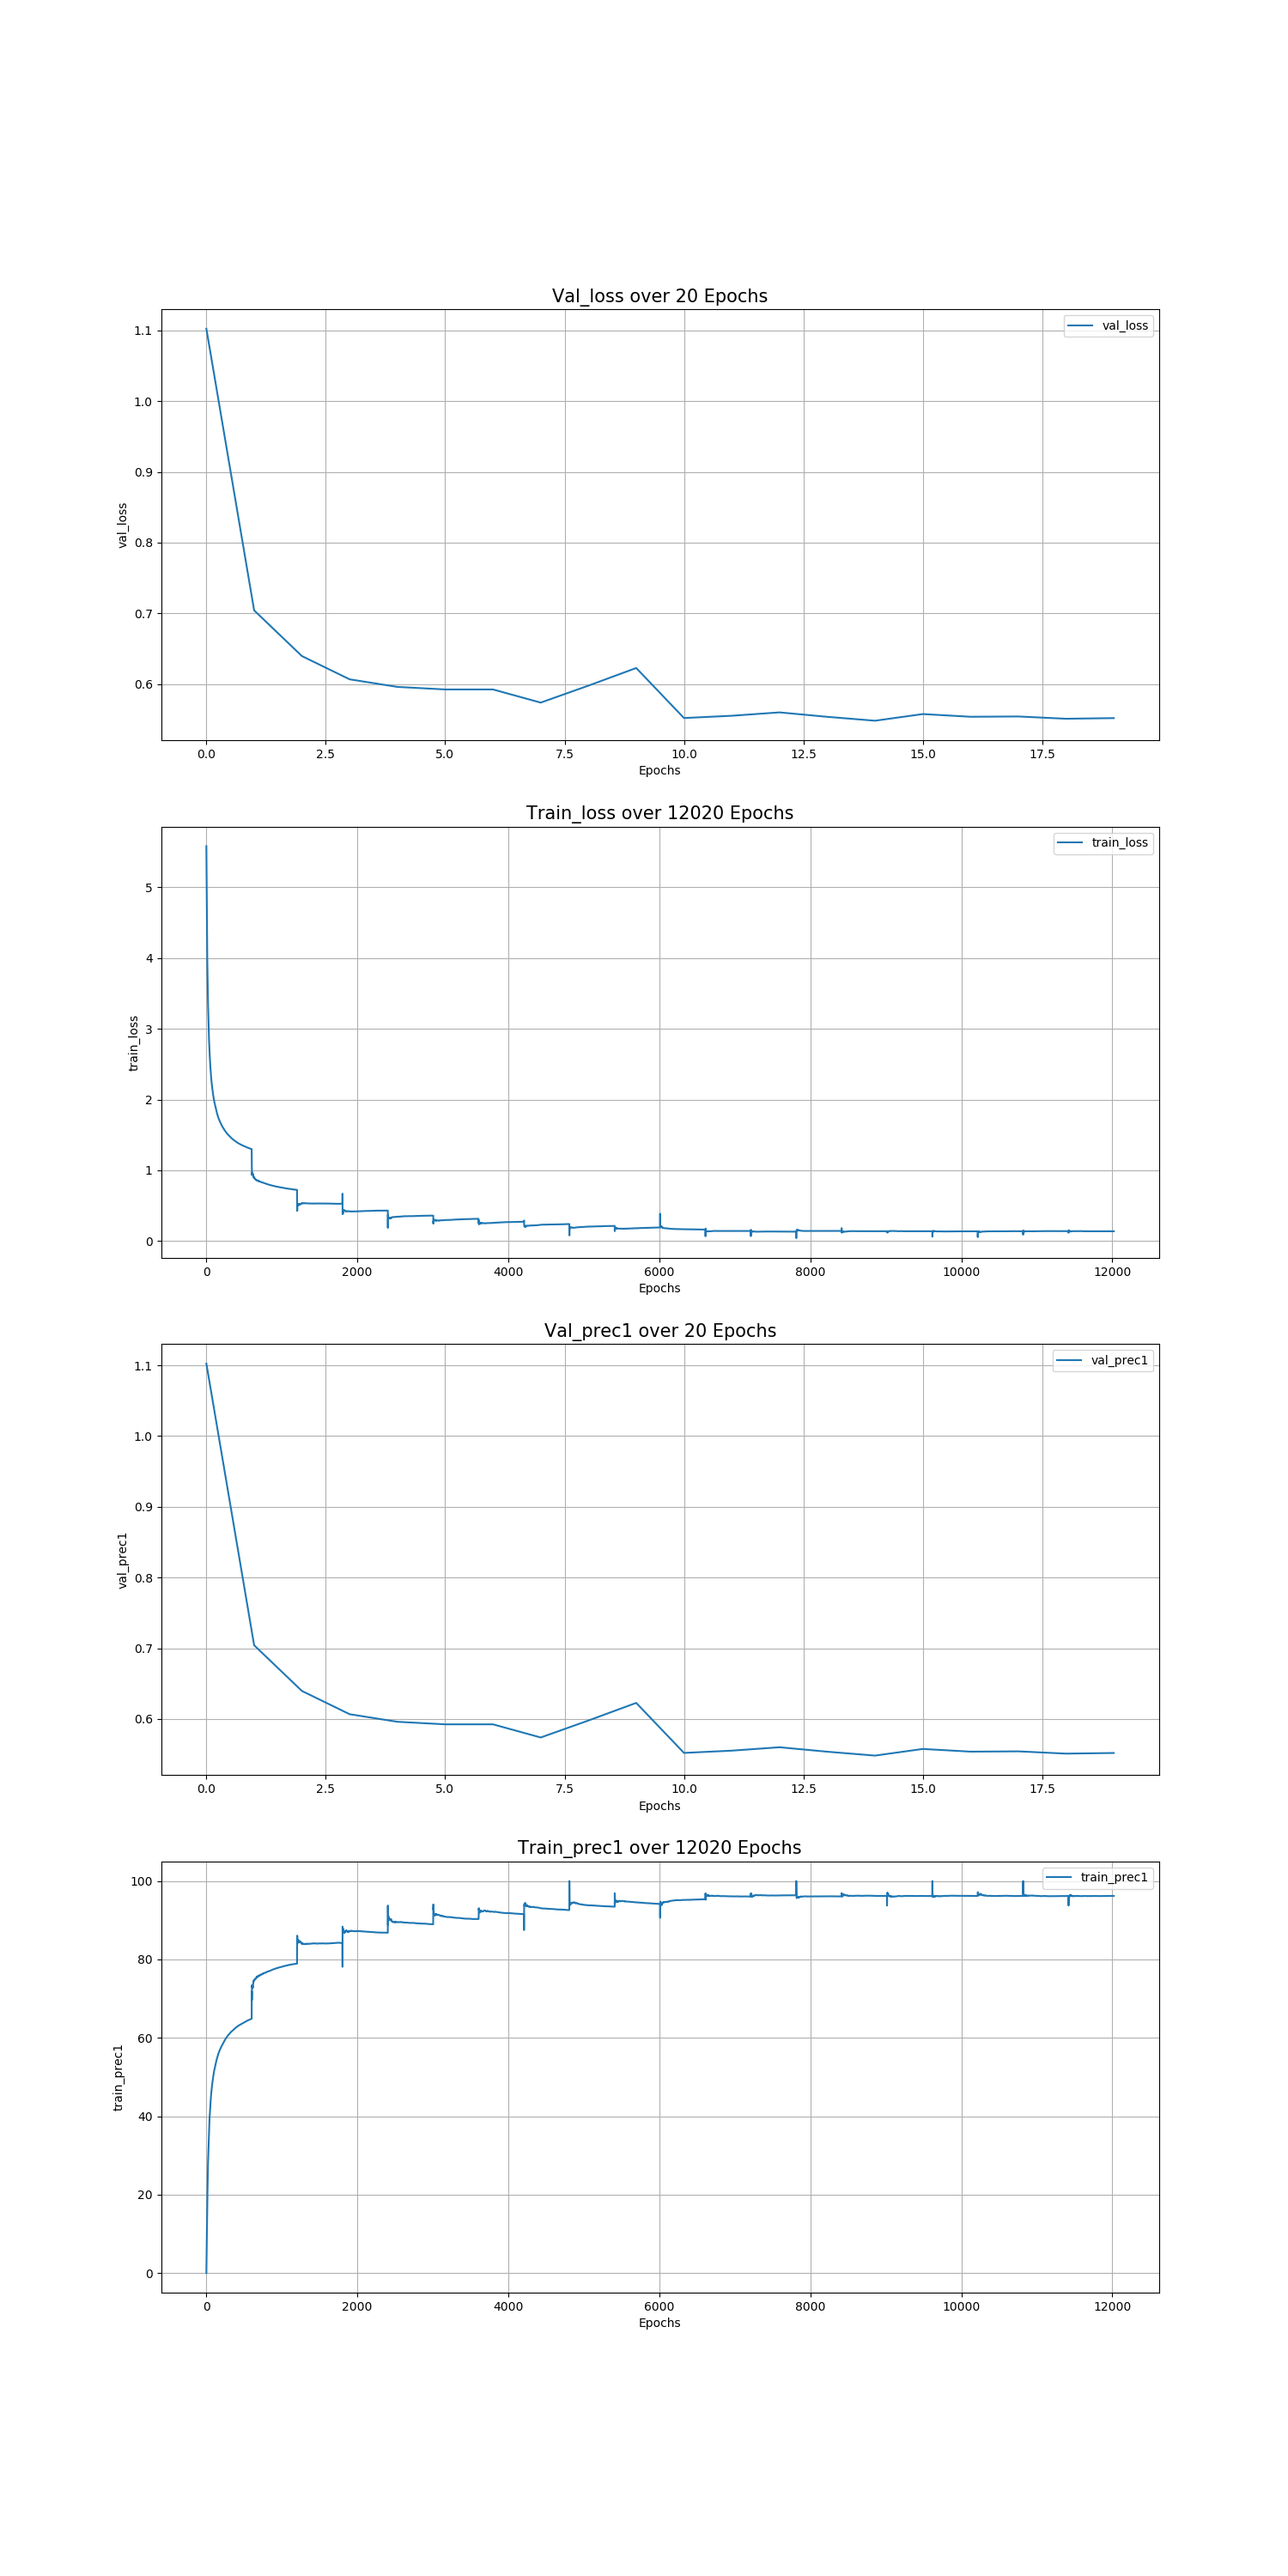
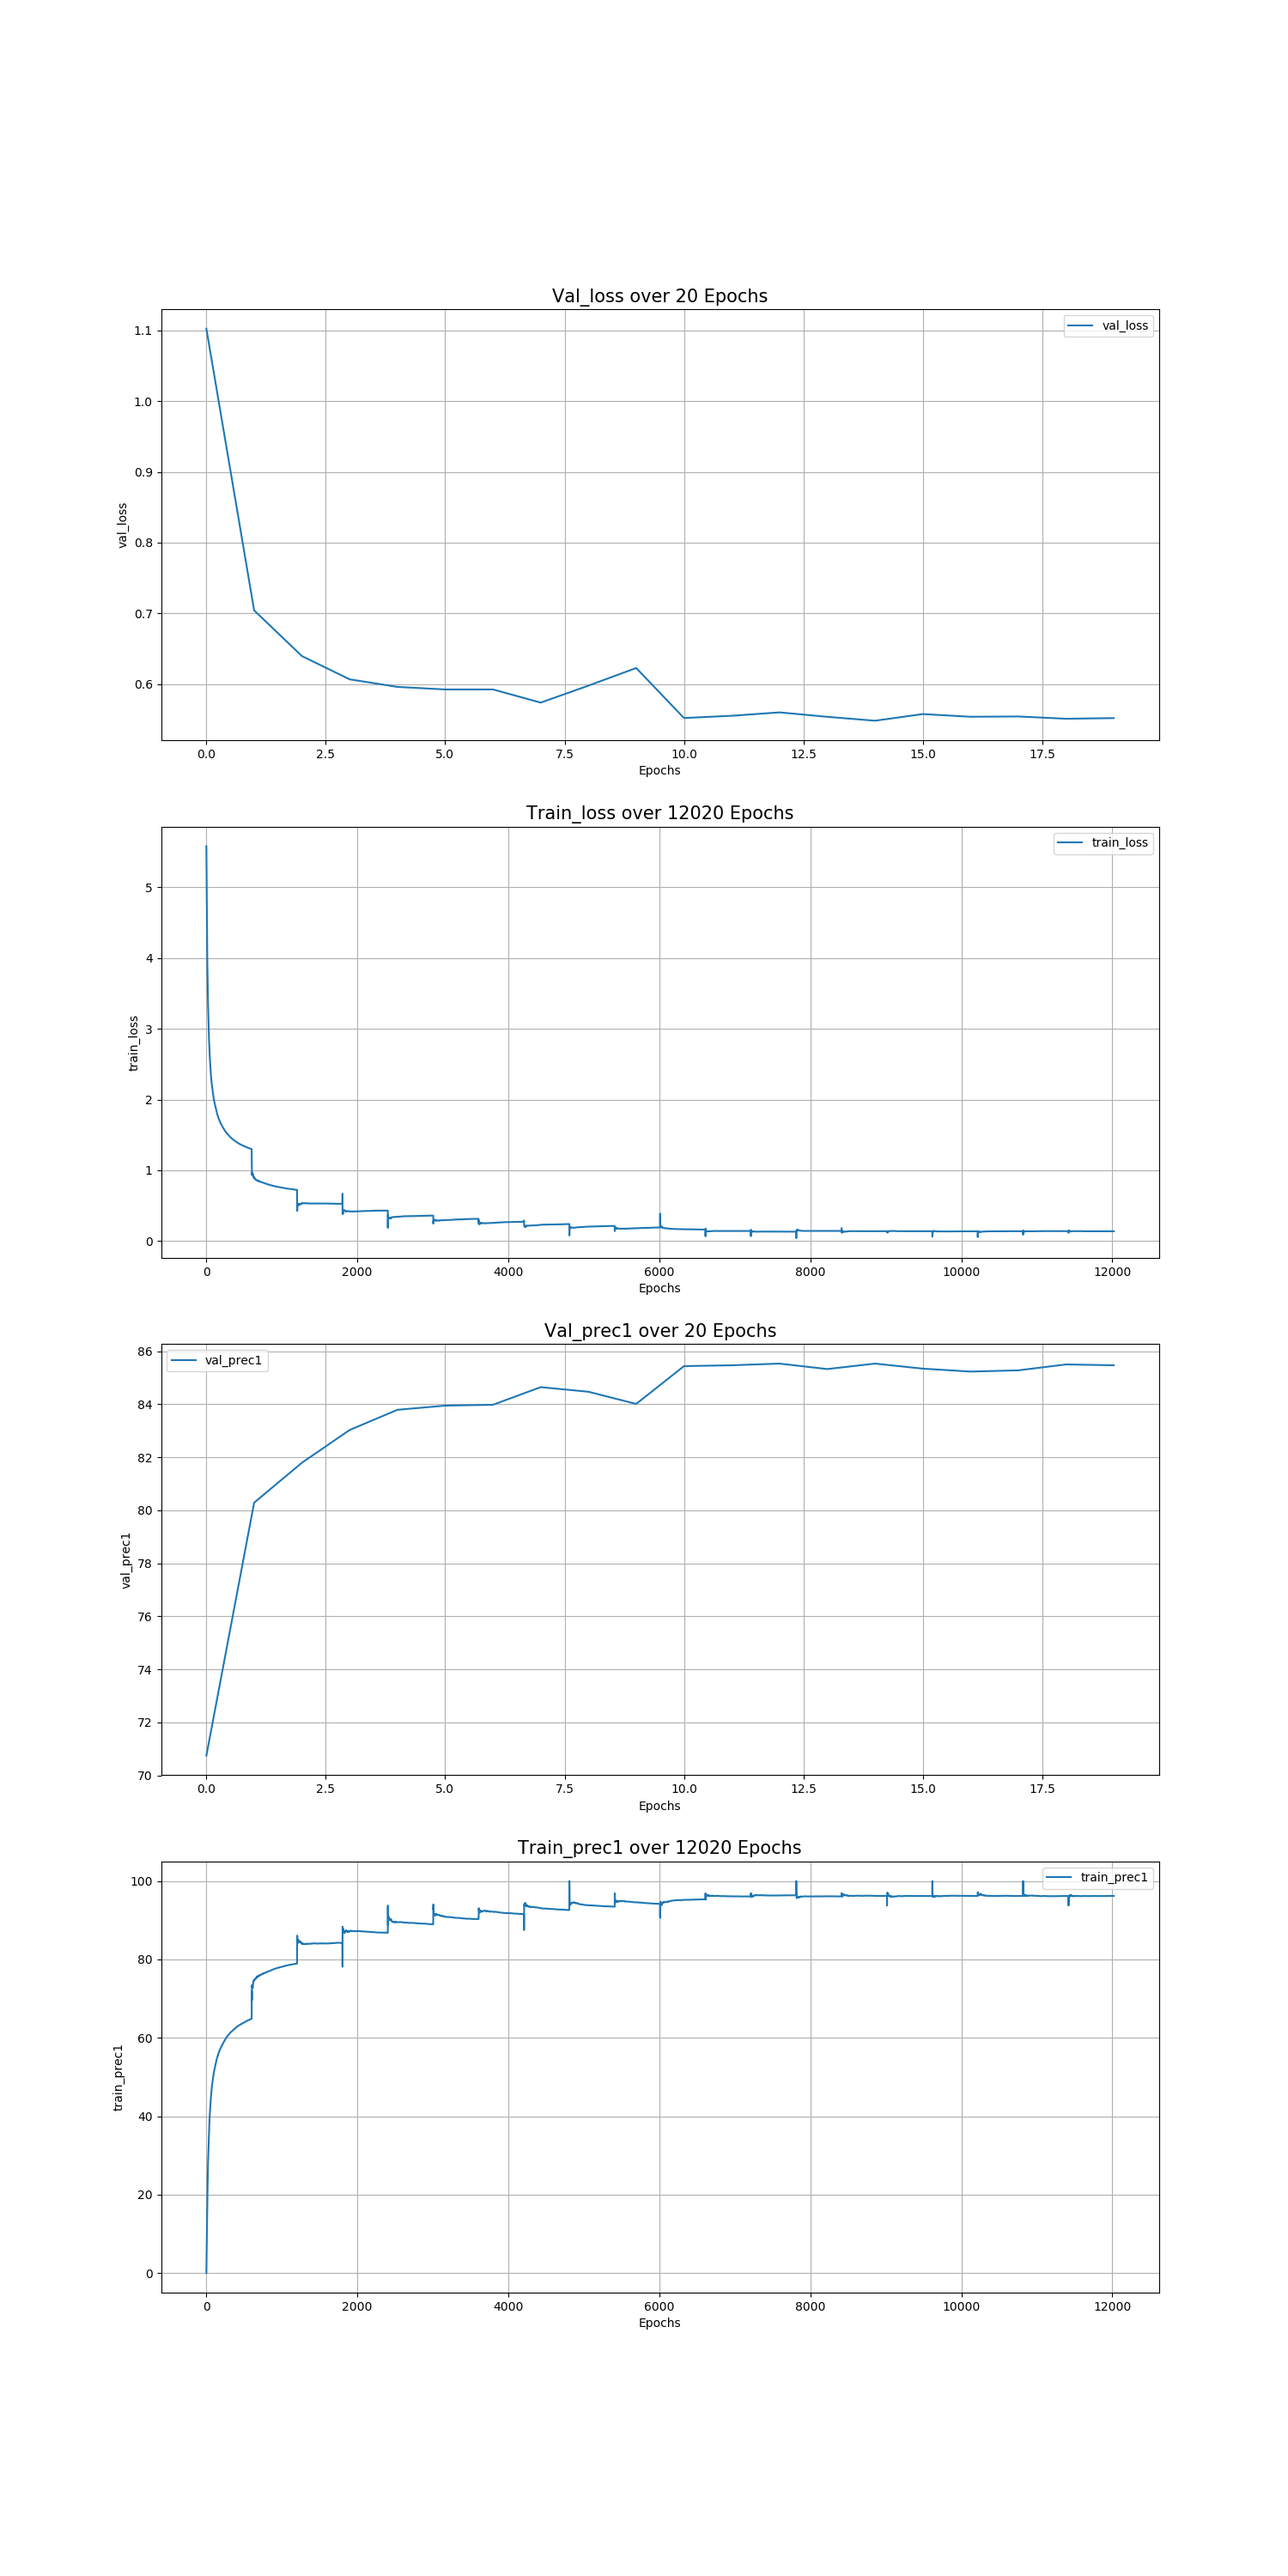
update

Changed region(s): [[0.184, 0.589, 0.2147, 0.62], [0.1533, 0.527, 0.184, 0.558], [0.092, 0.589, 0.1227, 0.62]]

diff --git a/logFileDraw.py b/logFileDraw.py
@@ -1,25 +1,23 @@
 
 # coding: utf-8
 
-# In[1]:
+# In[2]:
 
 
 import re
 import os
-# import tensorflow as tf
 import matplotlib.pyplot as plt
-# from argparse import ArgumentParser, ArgumentDefaultsHelpFormatter
 
 
-# In[16]:
+# In[3]:
 
 
 log_path = "./log/log6.txt"
-soft = False
+soft = True
 ep = 77
 
 
-# In[20]:
+# In[4]:
 
 
 val_prec1=[]
@@ -41,17 +39,17 @@ with open(log_path, 'r') as fp:
         if m2:
             if soft and (Iter2 % ep == 0) and (Iter2 != 0):
                 train_loss.append(train_loss[Iter2-1])
-                train_prec1.append(train_prec1[Iter2-1])                
+                train_prec1.append(train_prec1[Iter2-1])
                 Iter2 += 1
             else:
                 s1 = float(m2.group(2).replace(',', ''))
                 s2 = float(m2.group(4).replace(',', ''))
                 train_loss.append(s1)
-                train_prec1.append(s2)                
+                train_prec1.append(s2)
                 Iter2 += 1
 
 
-# In[21]:
+# In[5]:
 
 
 plt.figure(figsize=(15, 30))
@@ -72,7 +70,7 @@ plt.legend()
 plt.grid(True)
 
 plt.subplot(413)
-plt.plot(range(len(val_loss)), val_loss, label='val_prec1')
+plt.plot(range(len(val_prec1)), val_prec1, label='val_prec1')
 plt.title('Val_prec1 over '+ str(len(val_prec1)) +' Epochs', size=15)
 plt.xlabel("Epochs")
 plt.ylabel("val_prec1")
